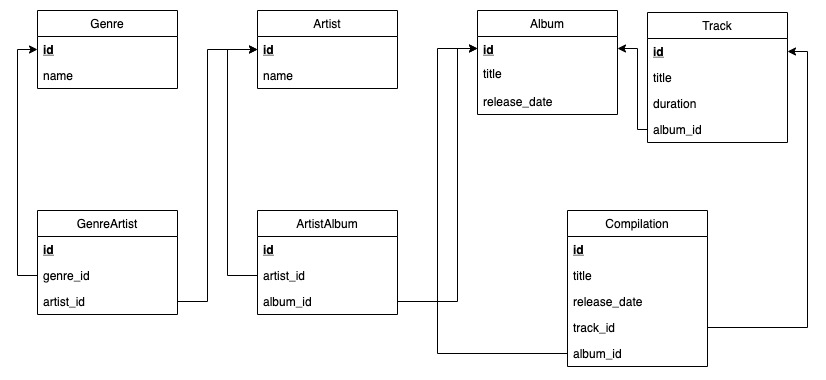
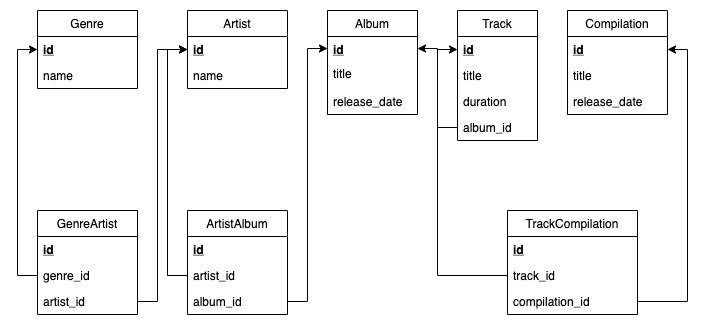
Diagramm changed, SQL-requests changed

diff --git a/README.md b/README.md
@@ -42,12 +42,16 @@ artist_id integer references artist(id),
 album_id integer references album(id)
 );
 
-CREATE TABLE Compilation (
+CREATE TABLE Compilation(
 id serial primary key,
-title varchar(80),
-release_date integer,
+title varchar(80) not null, 
+release_date integer not null
+);
+
+CREATE TABLE TrackCompilation (
+id serial primary key,
 track_id integer references track(id),
-album_id integer references album(id)
+compilation_id integer references compilation(id)
 );
 ```
 
